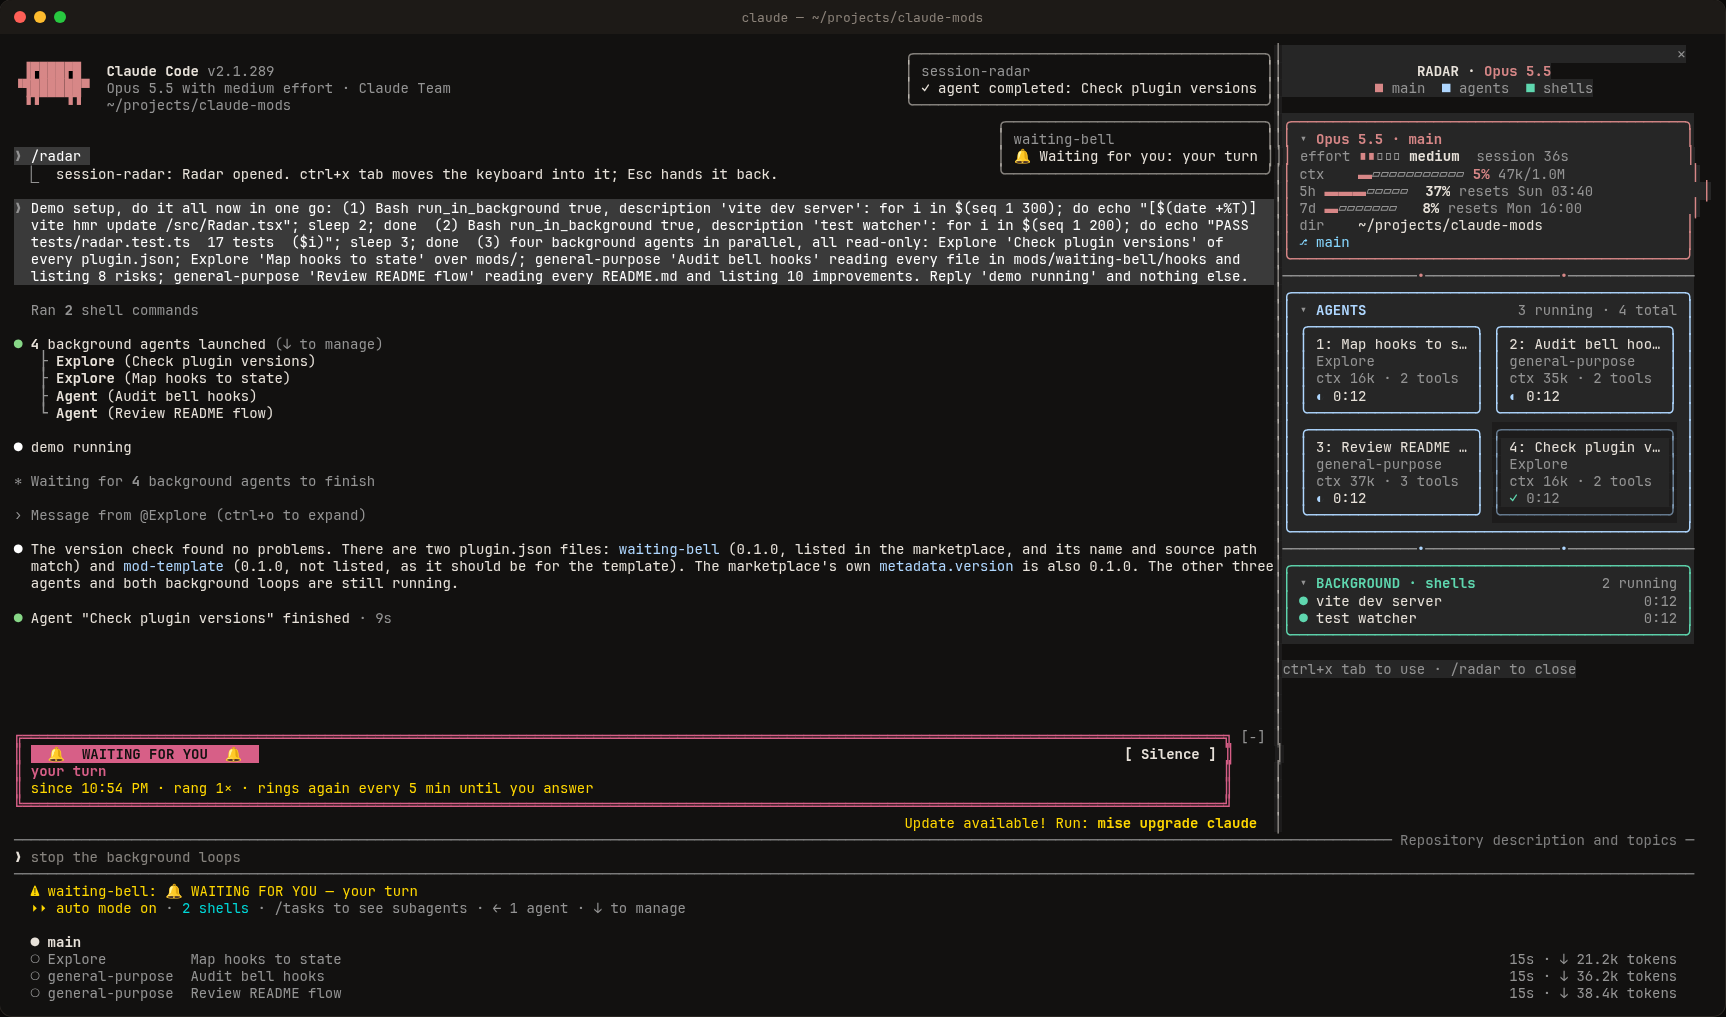
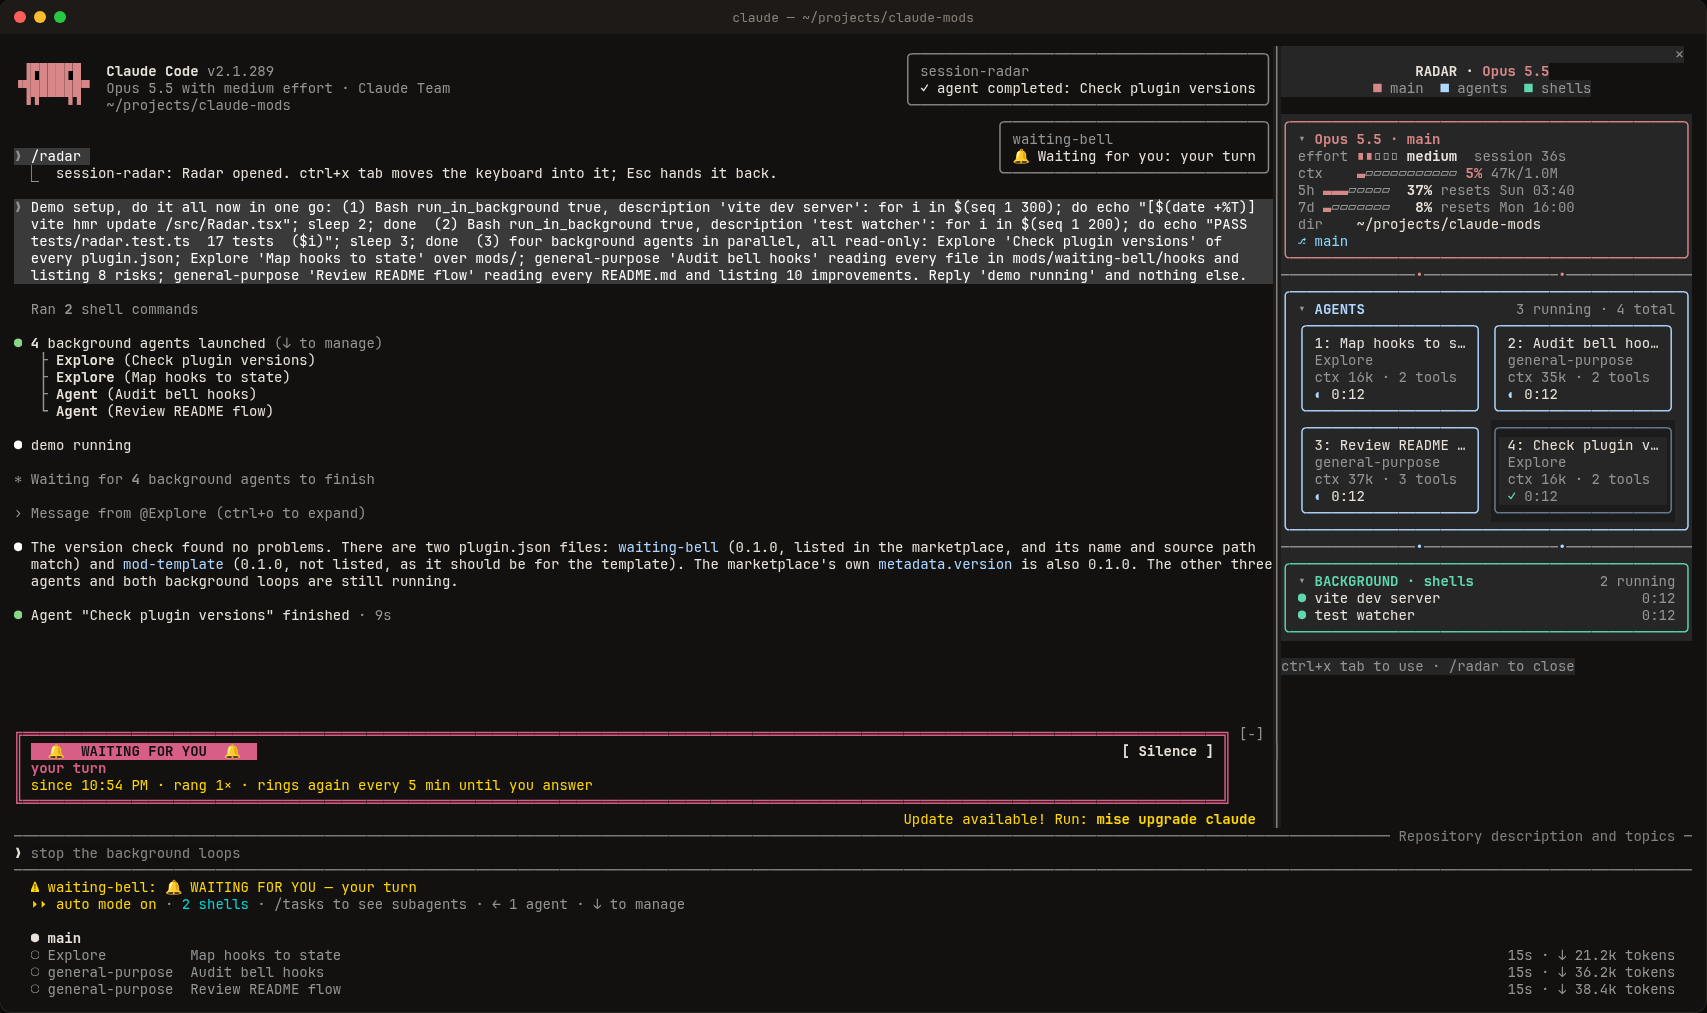
session-radar: fix false worktree label; re-render screenshots on a cell grid
From a subfolder, git prints the git dir absolute and the common dir
relative, so every checkout read as a worktree there. Ask for absolute
paths (with a fallback for git before 2.31) and read the branch before
the first draw.

The screenshots are re-rendered from the same captures with one cell per
character, so glyphs from a fallback font no longer push borders out of
line the way a real terminal never would.

diff --git a/mods/session-radar/tests/session-radar.test.ts b/mods/session-radar/tests/session-radar.test.ts
@@ -16,7 +16,7 @@ const PANE = (bodyColumns = 46, isFocused = false) => ({
 })
 
 // Stands in for the engine beneath the plugin.
-function world(on: On, { files = {}, now = 1_000_000 }: { files?: Record<string, string>; now?: number } = {}) {
+function world(on: On, { files = {}, now = 1_000_000, git }: { files?: Record<string, string>; now?: number; git?: string } = {}) {
   const clock = mock.clock(on, { now })
   const toasts: string[] = []
   const opened: string[] = []
@@ -35,7 +35,10 @@ function world(on: On, { files = {}, now = 1_000_000 }: { files?: Record<string,
   })
   on('agent.list', () => ({ value: [] }))
   on('session.cwd', () => ({ value: '/home/me/app' }))
-  on('process.run', () => ({ value: { exitCode: 1, stdout: '', stderr: '', isStdoutTruncated: false, isStderrTruncated: false } }))
+  on('process.run', (_$, e) => {
+    const isGit = git !== undefined && e.argv[0] === 'git' && e.argv.includes('--path-format=absolute')
+    return { value: { exitCode: isGit ? 0 : 1, stdout: isGit ? git : '', stderr: '', isStdoutTruncated: false, isStderrTruncated: false } }
+  })
   on('fs.stat', (_$, e) => {
     const text = files[e.path]
     if (text === undefined) throw new Error('missing')
@@ -326,3 +329,20 @@ test('agents get their own box, even with none yet', async ($, on) => {
   expect(await ui.find({ text: 'none yet' })).toBeDefined()
   expect(await ui.find({ key: 'fold-agents' })).toBeDefined()
 })
+
+for (const [name, stdout, label] of [
+  ['a checkout', 'main\n/home/me/app/.git\n/home/me/app/.git\n', '⎇ main'],
+  ['a worktree', 'fix/x\n/home/me/app/.git/worktrees/x\n/home/me/app/.git\n', '⎇ fix/x (worktree)'],
+] as const) {
+  test(`the branch line reads ${name} right`, async ($, on) => {
+    world(on, { git: stdout })
+    on('session.model', () => ({ value: 'claude-opus-5-5' }))
+    on('session.usage', () => ({ value: { startedAt: 0, context: { window: 200_000 }, rateLimits: [] } }))
+    on('command.register', () => ({ value: { command: 'radar' } }))
+    on('session.start', (_$, e) => ({ cwd: e.cwd }))
+    await $.session.start({ cwd: '/home/me/app', surface: 'terminal', isInteractive: true })
+
+    const ui = await $.ui.mount({ ...PANE(), surface: 'terminal' })
+    expect(await ui.find({ text: label })).toBeDefined()
+  })
+}

diff --git a/mods/session-radar/hooks/register.tsx b/mods/session-radar/hooks/register.tsx
@@ -46,11 +46,14 @@ const branchOf = new Map<string, { branch?: string; isWorktree: boolean }>()
 // ── reading the world ────────────────────────────────────────────────────────
 
 async function readBranch($: EngineInterface, cwd: string) {
-  const ran = await $.process
-    .run(['git', '-C', cwd, 'rev-parse', '--abbrev-ref', 'HEAD', '--git-dir', '--git-common-dir'], { timeoutMs: 3000 })
-    .catch(() => undefined)
-  if (!ran || ran.exitCode !== 0) return { isWorktree: false }
-  const [head, gitDir, commonDir] = ran.stdout.trim().split('\n')
+  // Absolute paths: from a subfolder git prints the git dir absolute and the
+  // common dir relative, which would read as a worktree. Git before 2.31 lacks
+  // the flag, so the branch alone is asked for then.
+  const git = (args: string[]) => $.process.run(['git', '-C', cwd, ...args], { timeoutMs: 3000 }).catch(() => undefined)
+  const ran = await git(['rev-parse', '--abbrev-ref', 'HEAD', '--path-format=absolute', '--git-dir', '--git-common-dir'])
+  const out = ran?.exitCode === 0 ? ran : await git(['rev-parse', '--abbrev-ref', 'HEAD'])
+  if (!out || out.exitCode !== 0) return { isWorktree: false }
+  const [head, gitDir, commonDir] = out.stdout.trim().split('\n')
   const found = { branch: head === 'HEAD' ? 'detached' : head, isWorktree: Boolean(gitDir && commonDir && gitDir !== commonDir) }
   branchOf.set(cwd, found)
   return found
@@ -223,7 +226,7 @@ export const register: Register = (on, options) => {
     ticker = $.clock.every(TICK_MS, () => void onTick($))
     const cwd = await $.session.cwd().catch(() => undefined)
     await update($, main, (m): Main => ({ ...m, cwd: m.cwd ?? cwd }))
-    void refreshBranches($)
+    await refreshBranches($)
     if (options.autoOpen === true) void $.ui.open({ id: PANE, title: 'Radar' })
     return result
   })
